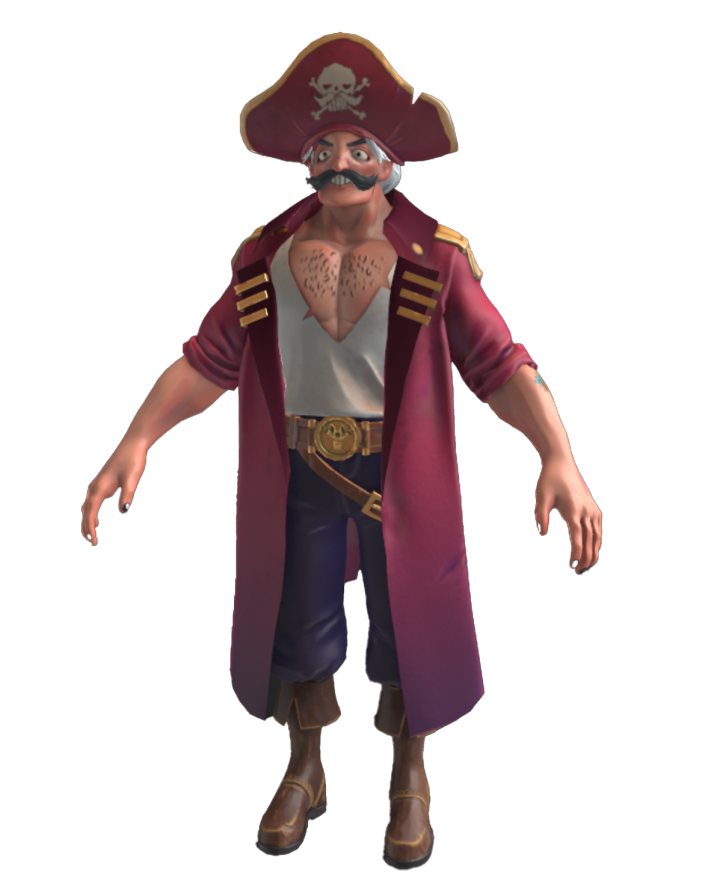
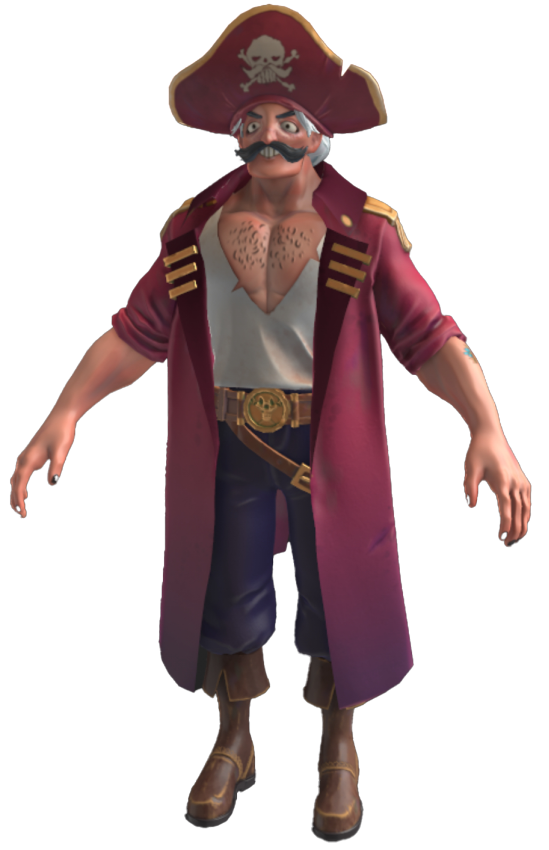
changes character images

Changed region(s): [[0.0, 0.0, 0.9909, 1.0]]

diff --git a/src/components/Characters/index.tsx b/src/components/Characters/index.tsx
@@ -13,7 +13,7 @@ export default function Characters() {
 
   return (
     <section id="characters" className=" w-full min-h-screen bg-orange-100  overflow-x-hidden  py-12 pt-10 pl-0 md:pl-0 lg:pl-10">
-      <div className="max-w-5xl  mx-auto pl-24 md:pl-30 lg:pl-8 mt-22 md:mt-22 lg:mt-30">
+      <div className="max-w-5xl  mx-auto pl-24 md:pl-30 lg:pl-8 mt-26 md:mt-22 lg:mt-30">
         <div className=" mx-auto flex flex-col lg:flex-row md:flex-col  sm:flex-col items-center justify-center md:w-full md:h-auto ">
           <div className="w-full flex justify-center mt-10">
             <Image
@@ -21,7 +21,7 @@ export default function Characters() {
               alt={selectedCharacter.name}
               width={500}
               height={400}
-              className="w-[16rem] h-[14rem] sm:w-80 sm:h-80 md:w-[24rem] md:h-[22rem] lg:w-[34rem] lg:h-[36rem] object-contain"
+              className="w-[16rem] h-[14rem] sm:w-80 sm:h-80 md:w-[24rem] md:h-[22rem] lg:w-[28rem] lg:h-[36rem] object-contain"
               priority
             />
           </div>
